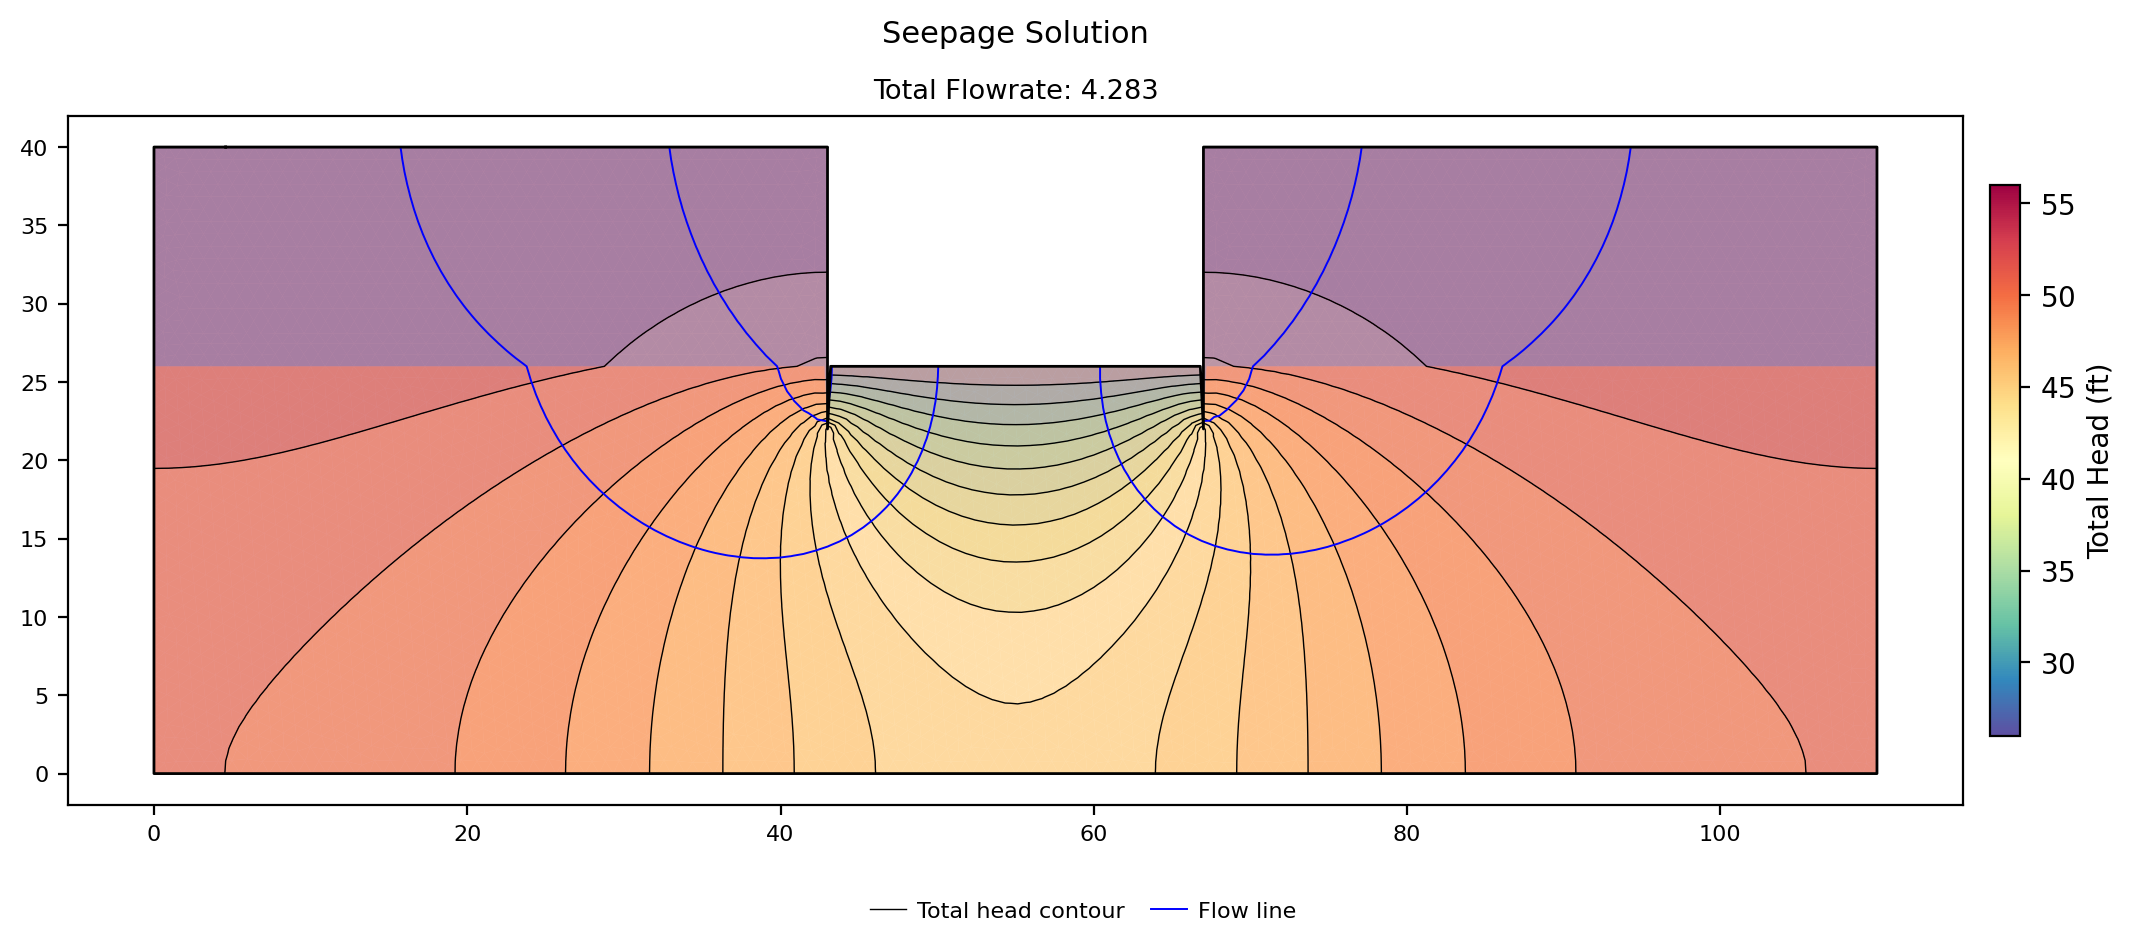
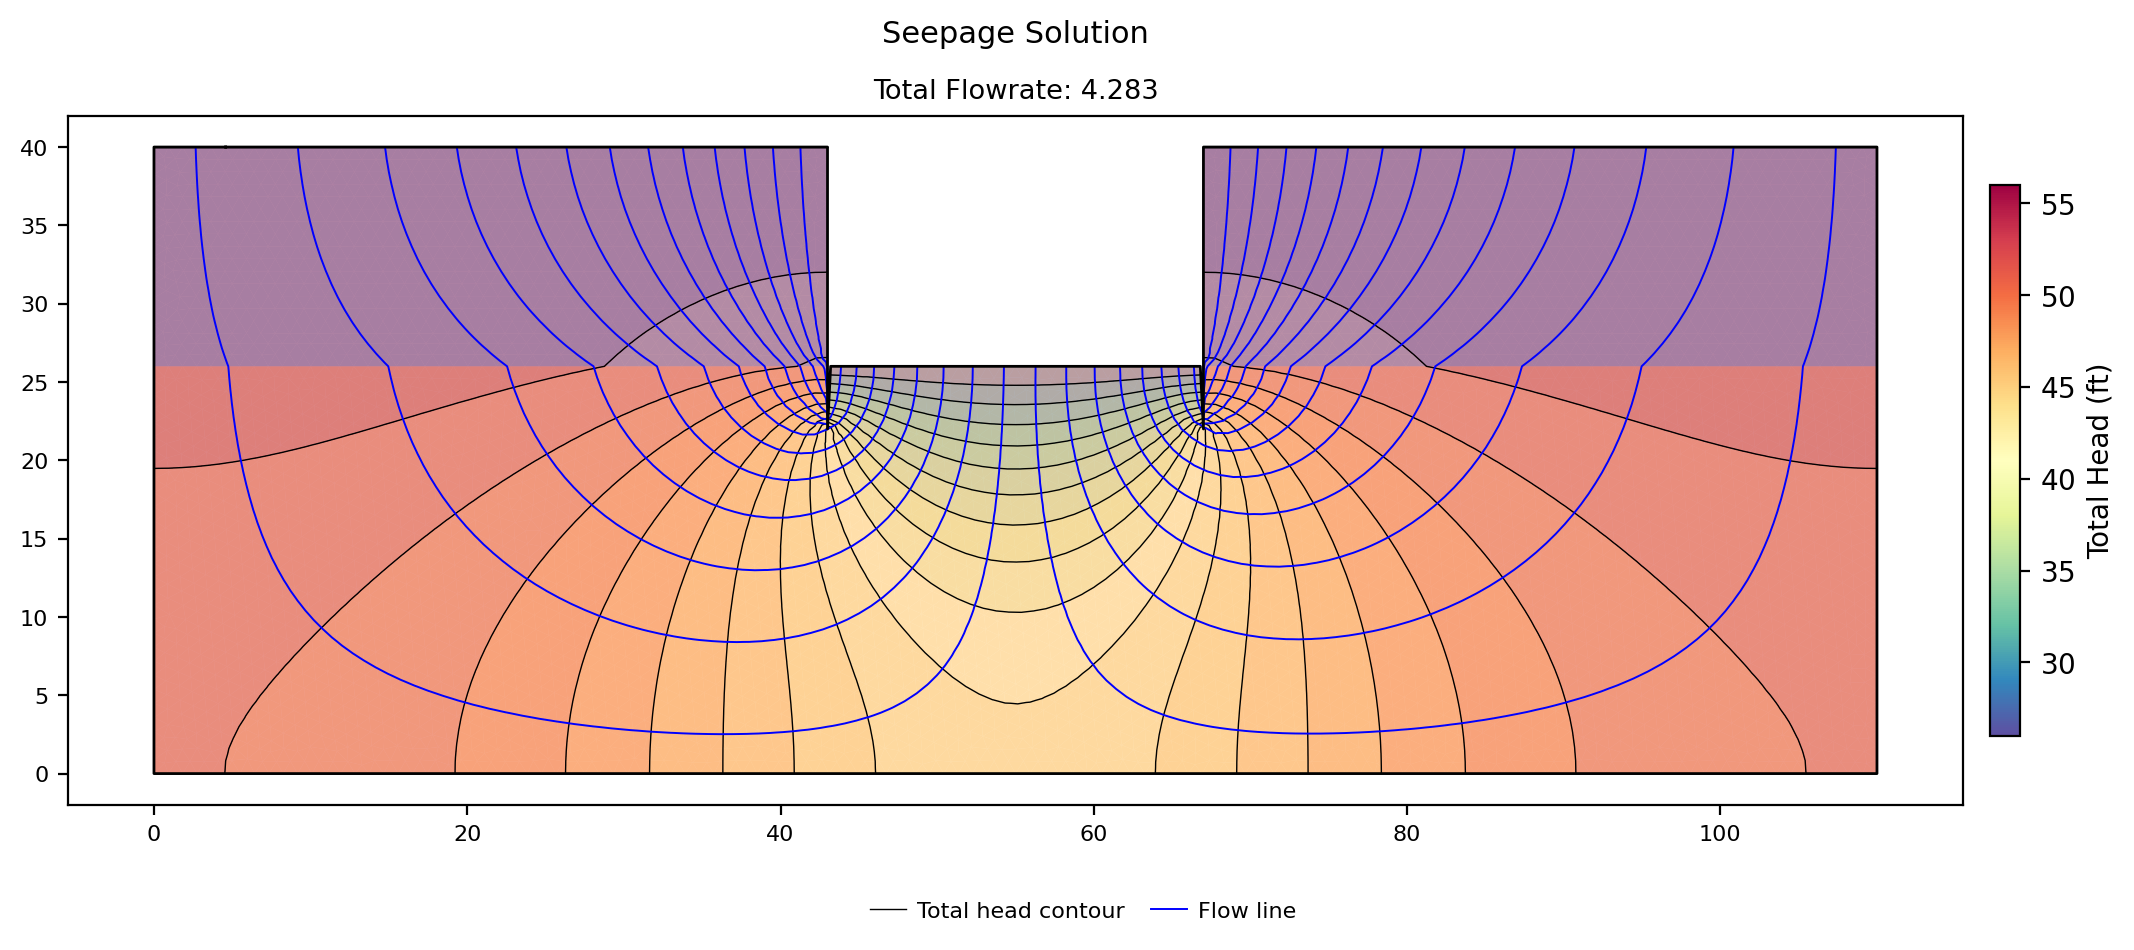
fix(seep/samples): the sea-trench flow net scales to the silty clay, its through-flow layer
The figure spec's base_mat pointed at material 1 with a comment calling the
silt the through-flow layer — but the silt is the upper bank material the
sheetpiles pass through; the flow that controls runs around the sheetpile tips
in the silty clay below (material 2, k = 0.1). Scaled to the wrong k the net
drew about a fifth of the flow lines a square-celled reading needs. The spec
now names material 2 and the regenerated figure's cells read as curvilinear
squares in the deep zone; the discharge (4.283, tag-locked) is unchanged —
base_mat sets only the drawn flow-line density.

Claude-Session: https://claude.ai/code/session_01XjjT2aBxw8gY7EFdpoUcpj

diff --git a/tools/make_seep_sample_figures.py b/tools/make_seep_sample_figures.py
@@ -69,7 +69,9 @@ DPI = 200
 #   Matches the flow-net densities of the pre-existing (Norm-approved) figures.
 CASES = [
     ("clay_blanket",  False, 1),   # saturated: sheetpile + clay blanket (1 material)
-    ("sea_trench",    False, 1),   # saturated: trench, silt is the through-flow layer
+    ("sea_trench",    False, 2),   # saturated: trench; the silty clay below the
+                                   # banks is the through-flow layer (the silt is
+                                   # the upper bank material)
     ("earth_dam1",    True,  2),   # partially saturated: shell + core; base = core
     ("earth_dam1_vg", True,  2),   # same dam, van Genuchten model; base = core
     ("johnson_res",   True,  3),   # shell/core/foundation; base = foundation
